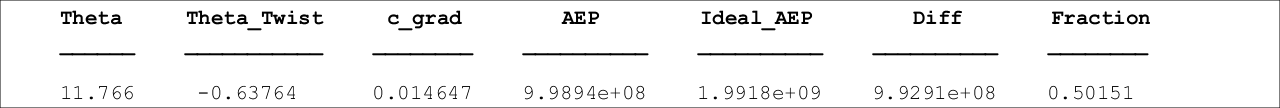
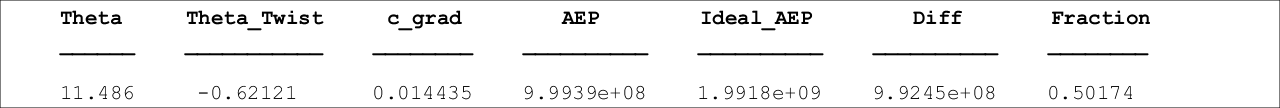
Add a script to plot the optima graphs.

diff --git a/checkOptima.m b/checkOptima.m
@@ -1,0 +1,69 @@
+function [xdeg_co] = checkOptima(x,globaldata)
+%CHECKOPTIMA Produces graphs holding 2 params constant and varying the other.
+%   Helps show check solution is optimal.
+
+globaldata.flags.overrideLimits=true;
+
+%% Changing Theta 0
+N=300;
+variableSpace=linspace(deg2rad(2),deg2rad(18),N);
+aepHold=zeros(1,N);
+progressbar('Finding AEPs - Changing Theta');
+for i=1:N
+    [~, aepHold(i), ~] = WTVelocityRange([variableSpace(i),x(2),x(3)], globaldata.A,...
+        globaldata.k, globaldata.w, globaldata.c_mean, globaldata.Rmax,...
+        globaldata.Rmin, globaldata.B, globaldata.Vmin, globaldata.Vmax,...
+        globaldata);
+    progressbar(i/N);
+end
+f7=figure(7);
+plot(rad2deg(variableSpace),aepHold,'r--');
+xdeg_co=[rad2deg(x(1)),rad2deg(x(2)),x(3)];
+hold on
+globaldata.flags.overrideLimits=false;
+aepHold=zeros(1,N);
+progressbar('Finding AEPs - Changing Theta');
+for i=1:N
+    [~, aepHold(i), ~] = WTVelocityRange([variableSpace(i),x(2),x(3)], globaldata.A,...
+        globaldata.k, globaldata.w, globaldata.c_mean, globaldata.Rmax,...
+        globaldata.Rmin, globaldata.B, globaldata.Vmin, globaldata.Vmax,...
+        globaldata);
+    progressbar(i/N);
+end
+plot(rad2deg(variableSpace),aepHold,'b-');
+globaldata.flags.overrideLimits=false;
+
+%% Changing Theta twist
+N=295;
+variableSpace=linspace(deg2rad(-2),deg2rad(-0.3),N);
+aepHold=zeros(1,N);
+progressbar('Finding AEPs - Changing Theta Twist');
+for i=1:N
+    [~, aepHold(i), ~] = WTVelocityRange([x(1),variableSpace(i),x(3)], globaldata.A,...
+        globaldata.k, globaldata.w, globaldata.c_mean, globaldata.Rmax,...
+        globaldata.Rmin, globaldata.B, globaldata.Vmin, globaldata.Vmax,...
+        globaldata);
+    progressbar(i/N);
+end
+f7=figure(8);
+plot(rad2deg(variableSpace),aepHold);
+xdeg_co=[rad2deg(x(1)),rad2deg(x(2)),x(3)];
+
+%% Changing c_grad
+N=300;
+variableSpace=linspace(-0.1,0.1,N);
+aepHold=zeros(1,N);
+progressbar('Finding AEPs - Changing Chord Gradient');
+for i=1:N
+    [~, aepHold(i), ~] = WTVelocityRange([x(1),x(2),variableSpace(i)], globaldata.A,...
+        globaldata.k, globaldata.w, globaldata.c_mean, globaldata.Rmax,...
+        globaldata.Rmin, globaldata.B, globaldata.Vmin, globaldata.Vmax,...
+        globaldata);
+    progressbar(i/N);
+end
+f7=figure(9);
+plot(variableSpace,aepHold);
+xdeg_co=[rad2deg(x(1)),rad2deg(x(2)),x(3)];
+
+end
+

diff --git a/WTVelocityRange.m b/WTVelocityRange.m
@@ -43,12 +43,13 @@ for vn=1:N
     
     if(max(momentHold)>globaldata.M_rootmax && globaldata.flags.overrideLimits==false)
         local_power=0;
-        %disp(['Moment Limit Exceeded: ' num2str(max(momentHold))]);
-    elseif(abs(min(def_zHold))>3 && globaldata.flags.overrideLimits==false)
+        disp(['Moment Limit Exceeded: ' num2str(max(momentHold))]);
+    elseif(abs(def_zHold(end))>3 && globaldata.flags.overrideLimits==false)
         local_power=0;
-        %disp(['Deflections Exceeded - z: ' num2str(abs(min(def_zHold)))]);
+        %disp(['Deflections Exceeded - z: ' num2str(abs(def_zHold(end)))]);
     else
     local_power=0.5*(powerHold(1,vn)+powerHold(1,vn+1));
+    %disp(['Deflections Exceeded - z: ' num2str(abs(def_zHold(end)))]);
     end
     local_prob=windProb(A,k,lowerbandv0,upperbandv0);
     

diff --git a/main.m b/main.m
@@ -34,7 +34,7 @@ opts.TolX = 0.0001; %Tolerance on the variation in the parameters
 opts.TolFun = 100; %Tolerance on the error
 opts.OutputFcn = @(x,optimValues,state)optMonitor(x,optimValues,state,globaldata); %Tolerance on the error
 opts.MaxIter = globaldata.maxiters-1; %Max number of iterations
-[x, diff, exitflag] = fminsearchbnd(@(x)aepCost(x,globaldata), [deg2rad(12) deg2rad(-0.5) 0], [deg2rad(2) deg2rad(-2) -0.1], [deg2rad(20) deg2rad(-0.1) 0.099], opts);
+[x, diff, exitflag] = fminsearchbnd(@(x)aepCost(x,globaldata), [deg2rad(11) deg2rad(-0.5) -0.5], [deg2rad(2) deg2rad(-2) -0.1], [deg2rad(20) deg2rad(-0.3) 0.099], opts);
 xdeg=[rad2deg(x(1)),rad2deg(x(2)),x(3)];
 if exitflag==1
     disp('Optimiser SOLVED.');
